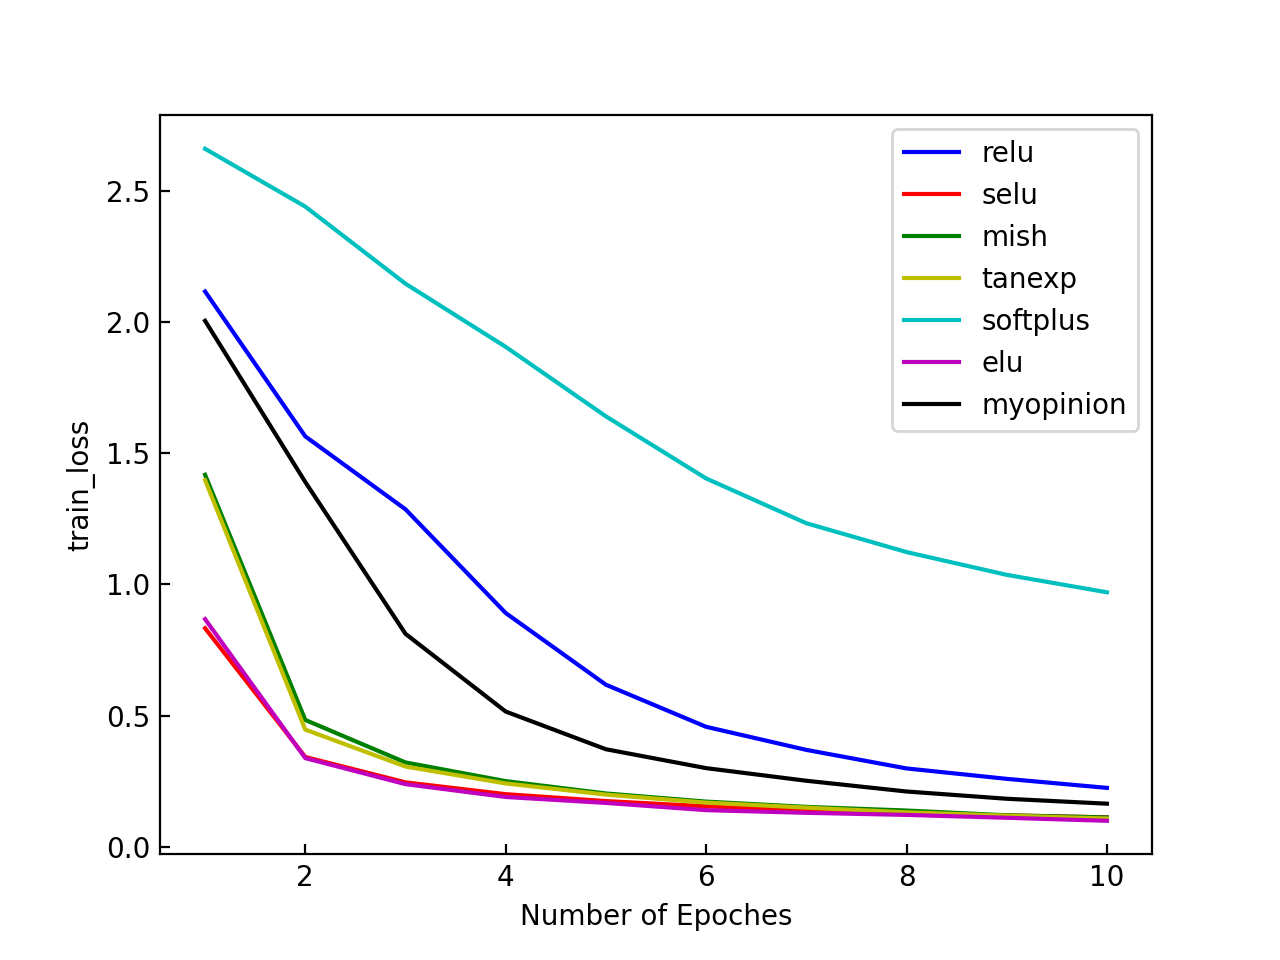
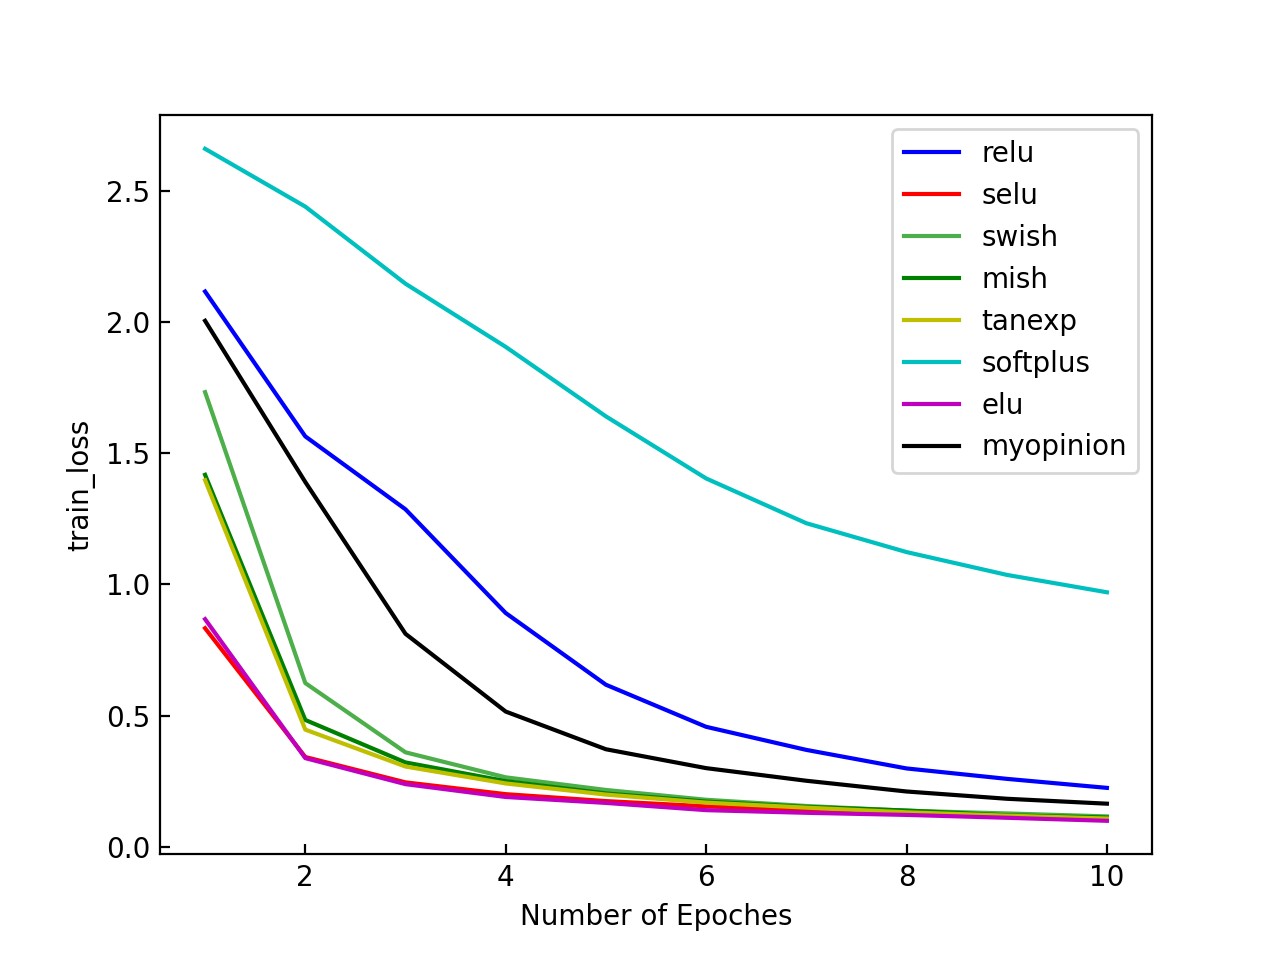
swish画像更新

diff --git a/graph_epochs.py b/graph_epochs.py
@@ -5,6 +5,7 @@ import matplotlib.pyplot as plt
 def conmprison_epochs():
     relu = np.loadtxt('relu/mnist_relu.csv')
     selu = np.loadtxt('selu/mnist_selu.csv')
+    swish = np.loadtxt('swish/mnist_Swish.csv')
     mish = np.loadtxt('mish/mnist_mish.csv')
     tanexp = np.loadtxt('Tanexp/mnist_tanexp.csv')
     softplus = np.loadtxt('softplus/mnist_softplus.csv')
@@ -14,15 +15,18 @@ def conmprison_epochs():
     data_type = ["train_loss", "train_accuracy", "val_loss", "val_accuracy"]
     print(relu[3][9])
     print(selu[3][9])
+    print(swish[3][9])
     print(mish[3][9])
     print(tanexp[3][9])
     print(softplus[3][9])
     print(elu[3][9])
     print(myopinion[3][9])
+
     for i in range(4):
         epochs = range(1, len(relu[0])+1)
         plt.plot(epochs, relu[i], 'b', label='relu')
         plt.plot(epochs, selu[i], 'r', label='selu')
+        plt.plot(epochs, swish[i], '#4daf4a', label='swish')
         plt.plot(epochs, mish[i], 'g', label='mish')
         plt.plot(epochs, tanexp[i], 'y', label='tanexp')
         plt.plot(epochs, softplus[i], 'c', label='softplus')

diff --git a/graph_layers.py b/graph_layers.py
@@ -5,6 +5,7 @@ import matplotlib.pyplot as plt
 def conmprison_layers():
     relu = np.loadtxt('relu/layers/mnist_relu_layers.csv')
     selu = np.loadtxt('selu/layers/mnist_selu_layers.csv')
+    swish = np.loadtxt('swish/layers/mnist_Swish_layers.csv')
     mish = np.loadtxt('mish/layers/mnist_mish_layers.csv')
     tanexp = np.loadtxt('Tanexp/layers/mnist_tanexp_layers.csv')
     softplus = np.loadtxt('softplus/layers/mnist_softplus_layers.csv')
@@ -15,6 +16,7 @@ def conmprison_layers():
     layers = range(12, 23)
     print(relu[3][9])
     print(selu[3][9])
+    print(swish[3][9])
     print(mish[3][9])
     print(tanexp[3][9])
     print(softplus[3][9])
@@ -23,6 +25,7 @@ def conmprison_layers():
     for i in range(4):
         plt.plot(layers, relu[i], 'b', label='relu')
         plt.plot(layers, selu[i], 'r', label='selu')
+        plt.plot(layers, swish[i], '#4daf4a', label='swish')
         plt.plot(layers, mish[i], 'g', label='mish')
         plt.plot(layers, tanexp[i], 'y', label='tanexp')
         plt.plot(layers, softplus[i], 'c', label='softplus')
